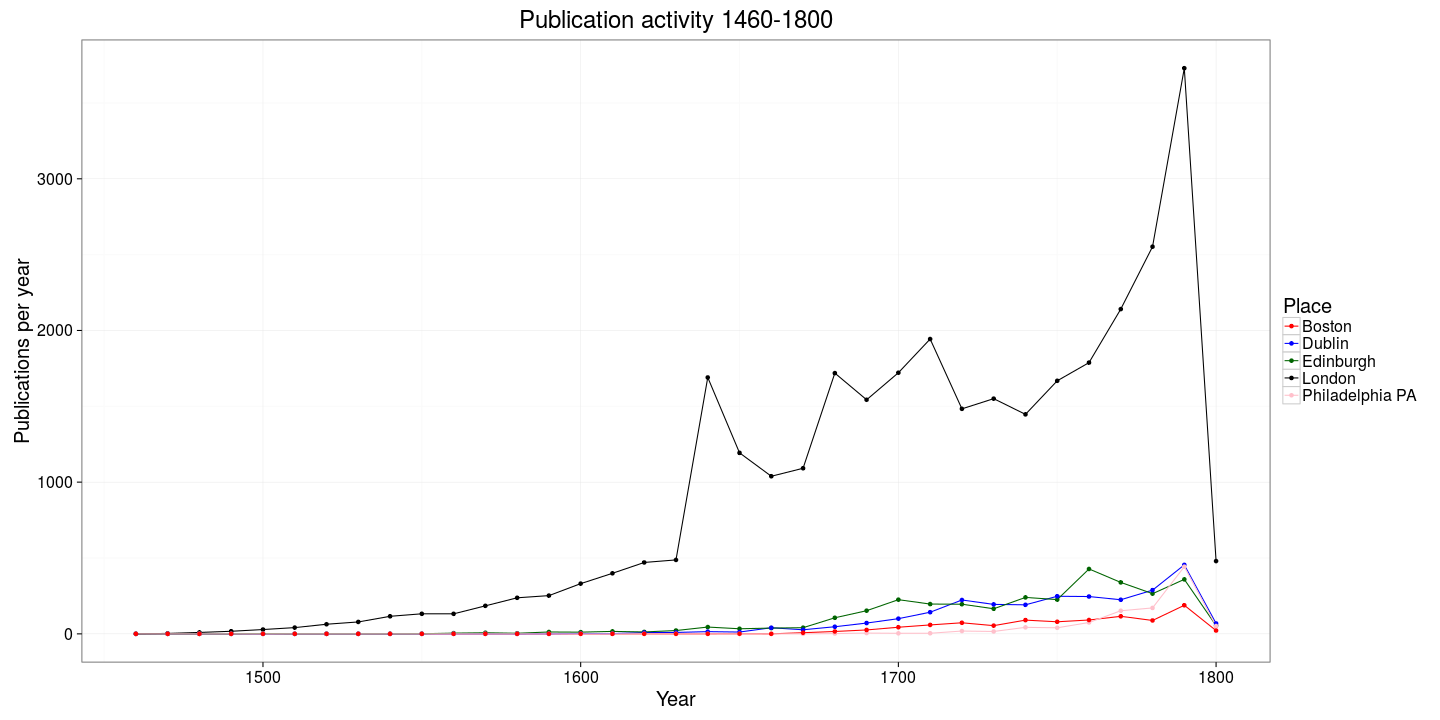
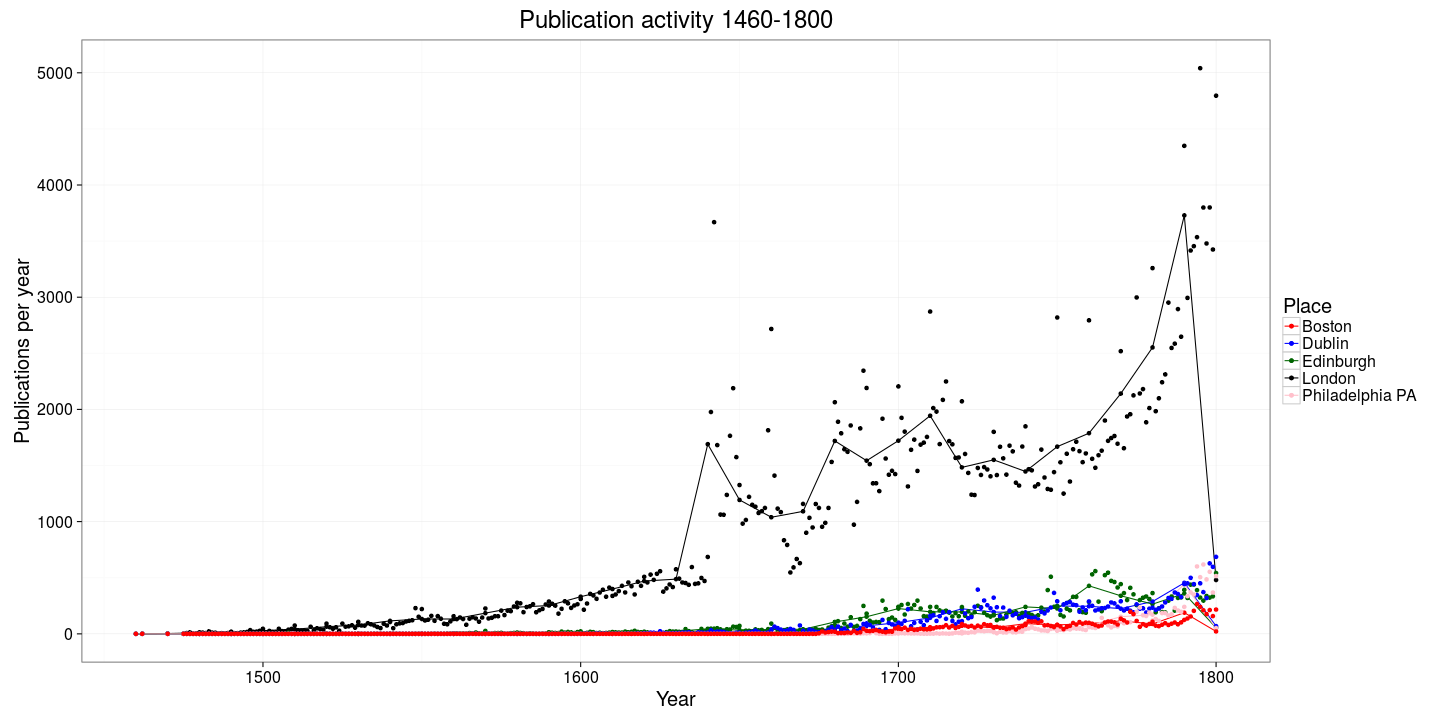
ok

diff --git a/inst/examples/NorthAmerica.md b/inst/examples/NorthAmerica.md
@@ -50,29 +50,4 @@ print(p)
 
 Average annual output for each decade is shown by lines, the actual annual document counts are shown by points. 
 
-
-```
-## Error in tapply(df$unity, list(df$publication.year, df$publication_place), : arguments must have same length
-```
-
-```
-## Error in publications.annual[is.na(publications.annual)] <- 0: object 'publications.annual' not found
-```
-
-```
-## Error in eval(expr, envir, enclos): object 'publications.annual' not found
-```
-
-```
-## Error in melt(publications.annual): object 'publications.annual' not found
-```
-
-```
-## Error in names(dfm.annual) <- c("Time", "Place", "Documents"): object 'dfm.annual' not found
-```
-
-```
-## Error in fortify(data): object 'dfm.annual' not found
-```
-
 ![plot of chunk NApubvols](figure/NApubvols-1.png)
